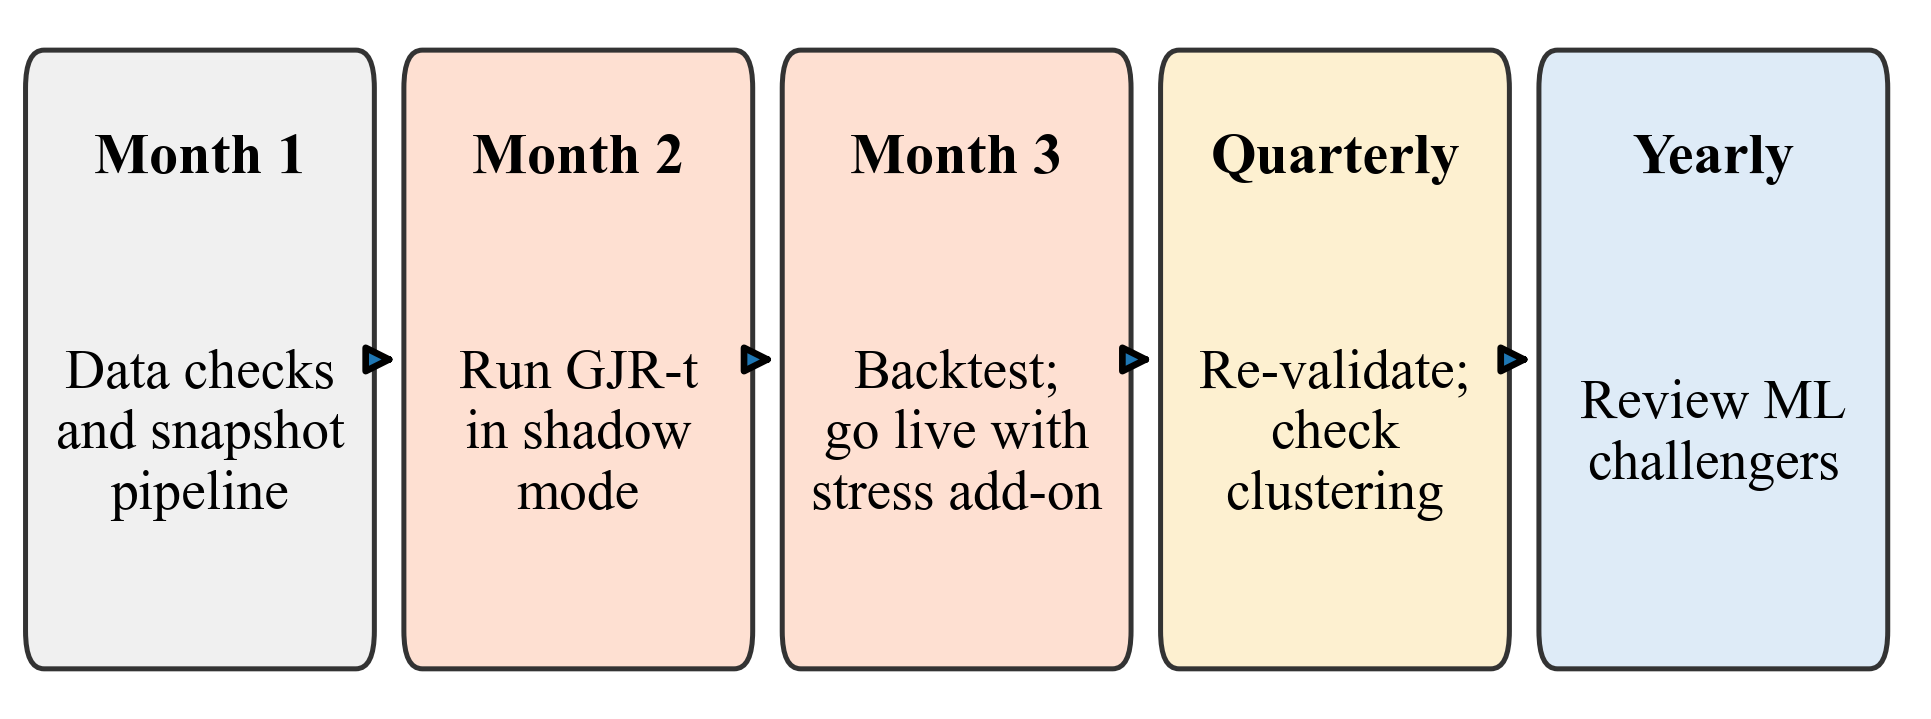
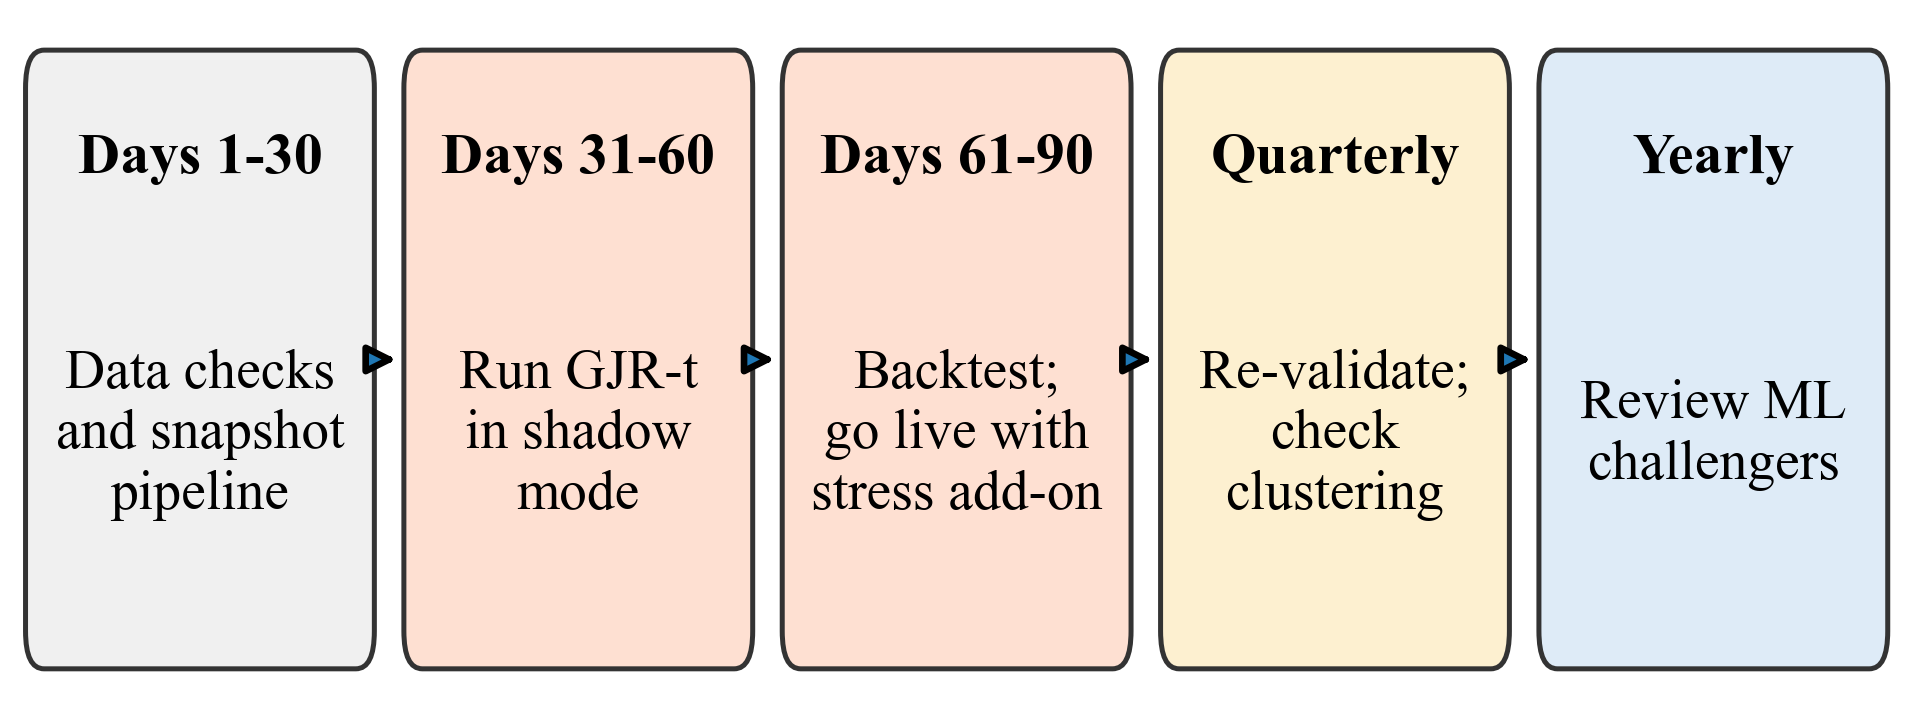
Step 8: rebuilt report (73 pages): monitoring scorecard, new Appendix G screenshots (smallest text 10.8-16.3 pt), roadmap in days; QA clean
Logs: macro_skipped.log and dropped_rows.csv lines come from the P10 two-ticker rerun.

Changed region(s): [[0.4039, 0.1836, 0.5904, 0.2448], [0.2175, 0.1836, 0.3729, 0.2448], [0.0311, 0.1836, 0.1864, 0.2448]]

diff --git a/src/report_numbers.py b/src/report_numbers.py
@@ -514,6 +514,23 @@ def build():
                            f"Lowest mean FZ0 in Q4: {q4}; Q4 loss above Q1 loss for {'all' if (g['Q4 stressed'] > g['Q1 calm']).all() else 'some'} models", h3],
                           ["H4: India VIX and macro inputs improve ML forecasts over price/volume inputs",
                            f"Adding the VIX level moved 99% breach rates of {sum(not x for x in vix_better)} of 3 ML models further from 1%; helped on validation but not on test in {flip} of {len(rows)} cases; repo rate not used (file not fully verified); CPI and IIP excluded by design", h4]])
+    # ---------------------------------------------------------------- monthly monitoring scorecard (Chapter 6)
+    gr = s.loc[("GJR-t", 0.01)]
+    n("gjrt_breaches_yr", f"{gr.exc_rate * 250:.1f}", src_s)
+    n("ideal_yr", f"{0.01 * 250:.1f}", "nominal 1% x 250 trading days")
+    n("gjrt_kupfail", pct(1 - gr.pass_kupiec, 0), src_s)
+    T["kpis"] = dict(
+        caption="Monthly monitoring scorecard: what to track, its value for GJR-t in the test window, and when to act",
+        source="outputs/tables/summary_price.csv, breach_days_summary_price.csv, diag_feature_ranges_summary.csv (values as in Chapter 5)",
+        head=["Measure", "Value in the test window", "Act when"], widths=[5, 4, 6], family_col=None,
+        rows=[["99% breaches per stock per year (GJR-t)", f"{gr.exc_rate * 250:.1f} (ideal {N['ideal_yr'][0]})", "Five or more in the last 250 days for a stock (Basel amber zone): review that stock's model"],
+              ["Stocks failing the \u201ctoo often?\u201d check (Kupiec, 99%)", N["gjrt_kupfail"][0], "The share rises above this level: re-estimate and review"],
+              ["Days with 10 or more stocks breached together", N["d10_gjrt"][0] if "d10_gjrt" in N else str(int(bs.loc["GJR-t"].days_with_10plus_breaches)), "Any such day: stress review the same week; check the stress buffer"],
+              ["Share of breaches on market-wide stress days", N["stress_gjrt"][0], "Re-size the stress buffer each year from this share"],
+              ["Real loss on very bad days / forecast ES (99%)", N["es99_gjrt"][0], "Above 1: keep the prudence margin on ES"],
+              ["No-risk forecasts by any ML challenger (99%)", f"{N['norisk99_xgb'][0]} stock-days (XGBoost)", "Any: the challenger fails review"],
+              ["Inputs outside the range seen in training", f"USD/INR level {N['out_usdinr'][0]} of test days", "Above a few per cent: drop the input or refit"]])
+
     # ---------------------------------------------------------------- findings table (end of Chapter 5)
     v_ = lambda k: N[k][0]
     T["findings"] = dict(

diff --git a/src/report_screens.py b/src/report_screens.py
@@ -18,7 +18,8 @@ ROOT = os.path.dirname(os.path.dirname(os.path.abspath(__file__)))
 VIEW_W = 480
 PRINT_CM = 14.6
 MAX_IMG_CM = 20.5   # image height that leaves room for the caption, source line and "What this means" box
-MAX_CM = {"start_numbers": 21.6}  # the Key numbers block needs slightly more; its caption and box are short
+MAX_CM = {"start_numbers": 21.6,  # the Key numbers block needs slightly more; its caption and box are short
+          "live_tabletop": 16.6}  # leaves room for the banner and the break above it, so the crop ends on a row
 PAD = 4
 
 # name, route, JS function of <main> returning [start element, element whose bottom ends the crop]

diff --git a/report/qa_phase2.md b/report/qa_phase2.md
@@ -1,6 +1,6 @@
 # Phase 2 report: build QA
 
-- Placeholders filled: 142 distinct numbers, each traced to a file in outputs/ (outputs/tables/report/report_numbers.csv)
+- Placeholders filled: 162 distinct numbers, each traced to a file in outputs/ (outputs/tables/report/report_numbers.csv)
 - Unresolved placeholders: none
 - [FILL] / [UNVERIFIED] markers in printed text: none
 - Figures or tables never referenced in the text: none
@@ -12,13 +12,13 @@
 |---|---|---|
 | 1 | 2 | 0 |
 | 2 | 0 | 1 |
-| 3 | 3 | 0 |
+| 3 | 3 | 1 |
 | 4 | 4 | 3 |
-| 5 | 14 | 14 |
-| 6 | 3 | 1 |
+| 5 | 14 | 15 |
+| 6 | 3 | 6 |
 | 7 | 0 | 0 |
 | 8 | 0 | 0 |
-| 9 | 5 | 5 |
+| 9 | 6 | 5 |
 
 ## Images (width in the report and effective resolution)
 
@@ -50,11 +50,12 @@
 | Figure 6.1 | report/figures/v_decision_table.png | 2438x2587 | 15.5 | 400 |
 | Figure 6.2 | report/figures/v_model_flow.png | 2445x1918 | 15.5 | 401 |
 | Figure 6.3 | report/figures/v_roadmap.png | 1892x649 | 15.5 | 310 |
-| Figure 9.1 | report/figures/dashboard/phone_start.png | 908x1251 | 14.6 | 158 |
-| Figure 9.2 | report/figures/dashboard/phone_models.png | 908x1203 | 14.6 | 158 |
-| Figure 9.3 | report/figures/dashboard/phone_regimes.png | 908x1136 | 14.6 | 158 |
-| Figure 9.4 | report/figures/dashboard/phone_stock.png | 908x1056 | 14.6 | 158 |
-| Figure 9.5 | report/figures/dashboard/phone_live.png | 908x1244 | 14.6 | 158 |
+| Figure 9.1 | report/figures/dashboard/app_start_numbers.png | 1824x2632 | 14.6 | 317 |
+| Figure 9.2 | report/figures/dashboard/app_start_actions.png | 1824x2348 | 14.6 | 317 |
+| Figure 9.3 | report/figures/dashboard/app_models_beaten.png | 1428x1738 | 14.6 | 248 |
+| Figure 9.4 | report/figures/dashboard/app_regimes_fig14.png | 1591x1784 | 14.6 | 277 |
+| Figure 9.5 | report/figures/dashboard/app_stock_fig3.png | 1595x2024 | 14.6 | 277 |
+| Figure 9.6 | report/figures/dashboard/app_live_table.png | 1824x2479 | 14.6 | 317 |
 
 ## Literal numbers in Chapters 5-7 not filled from outputs (for review)
 

diff --git a/report/chapters/09_appendices.md b/report/chapters/09_appendices.md
@@ -77,6 +77,6 @@ The code and data pipeline are in the public repository github.com/ghiris-a11y/c
 
 [[MEANS]] Any user can see, stock by stock, the days on which each model's forecast was beaten.
 
-[[FIG:dash_live|report/figures/dashboard/app_live_table.png|Dashboard, Daily example: the banner and the top of the next-day table (the text between them is left out; the dashed line marks the break)|Live dashboard, captured with Playwright (src/report_screens.py)|Two stacked phone screenshots: an amber banner saying "Daily example only. This is not the report's results. It updates each weekday evening.", a dashed break, and the top of a table of next-day worst-loss estimates by stock.|14.6]]
+[[FIG:dash_live|report/figures/dashboard/app_live_table.png|Dashboard, Daily example: the banner and the top of the next-day table (the text between them is left out; the dashed line marks the break; on a phone the table scrolls sideways to more columns)|Live dashboard, captured with Playwright (src/report_screens.py)|Two stacked phone screenshots: an amber banner saying "Daily example only. This is not the report's results. It updates each weekday evening.", a dashed break, and the top of a table of next-day worst-loss estimates by stock.|14.6]]
 
 [[MEANS]] The daily example shows the recommended model running every evening; it is clearly labelled as separate from the frozen results in this report.

diff --git a/report/page_check.md b/report/page_check.md
@@ -1,17 +1,17 @@
 # Phase 2 report: page check
 
-Total pages: 66 (front matter: 8, chapters 1-9: 58)
+Total pages: 73 (front matter: 8, chapters 1-9: 65)
 
 | Chapter | Starts on PDF page | Pages | Share of chapter pages | Figures | Tables |
 |---|---|---|---|---|---|
-| 1 | 9 | 4 | 7% | 2 | 0 |
+| 1 | 9 | 4 | 6% | 2 | 0 |
 | 2 | 13 | 3 | 5% | 0 | 1 |
-| 3 | 16 | 4 | 7% | 3 | 0 |
-| 4 | 20 | 6 | 10% | 4 | 3 |
-| 5 | 26 | 21 | 36% | 14 | 14 |
-| 6 | 47 | 6 | 10% | 3 | 1 |
-| 7 | 53 | 1 | 2% | 0 | 0 |
-| 8 | 54 | 3 | 5% | 0 | 0 |
-| 9 | 57 | 10 | 17% | 5 | 5 |
+| 3 | 16 | 5 | 8% | 3 | 1 |
+| 4 | 21 | 6 | 9% | 4 | 3 |
+| 5 | 27 | 22 | 34% | 14 | 15 |
+| 6 | 49 | 9 | 14% | 3 | 6 |
+| 7 | 58 | 2 | 3% | 0 | 0 |
+| 8 | 60 | 3 | 5% | 0 | 0 |
+| 9 | 63 | 11 | 17% | 6 | 5 |
 
-Chapters 5 and 6 (analysis and recommendations): 27 of 58 chapter pages (47%); Chapters 1-3 (theory and method): 11 pages (19%).
+Chapters 5 and 6 (analysis and recommendations): 31 of 65 chapter pages (48%); Chapters 1-3 (theory and method): 12 pages (18%).

diff --git a/report/chapters/06_recommendations.md b/report/chapters/06_recommendations.md
@@ -123,3 +123,11 @@ Assumptions: one-day horizon; a position held equally in each stock; 250 trading
 | Over-reliance on one model | All results come from one test window | Keep a challenger model and the historical-simulation benchmark in the monthly report |
 
 [[MEANS]] None of these risks is a reason to delay. Each has a low-cost control, and most are already built into the daily pipeline and the dashboard.
+
+## 6.10 Monthly monitoring scorecard
+
+{{tab:kpis}} turns the findings into a short list of measures a risk committee can review each month, with the current value for the recommended model and the point at which to act.
+
+[[TABLE:kpis|kpis]]
+
+[[MEANS]] Each measure is cheap to compute from the daily run and each has a clear action. GJR-t had about {{gjrt_breaches_yr}} 99% breaches per stock per year against an ideal of {{ideal_yr}}, so in normal months the scorecard should show few alerts; when it does show one, the clustered-breach and stress-day rows say whether the cause is the model or the market.
